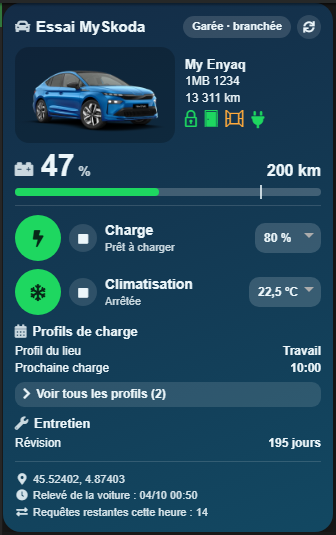
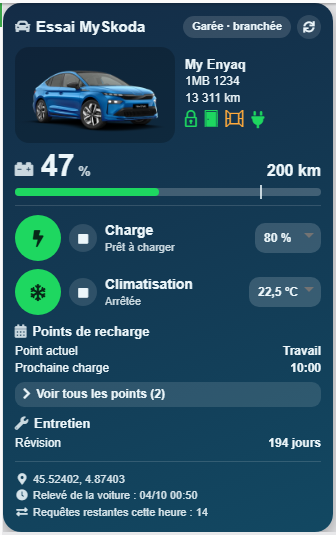
Version 0.82 : Points de recharge, Heures de depart et Heures de charge preferees comme dans l application, intitule Nombre des fiches de total

diff --git a/aide/fr_FR/index.html b/aide/fr_FR/index.html
@@ -21,8 +21,8 @@ li { margin: 4px 0; }
 <a href="index.html">Documentation</a><a href="changelog_beta.html">Journal des versions (beta)</a>
 </header>
 <p>Suivi et pilotage d'un véhicule Škoda par l'API publique officielle MyŠkoda.</p>
-<blockquote><p>Documentation du plugin en version 0.81 beta, publiée le 10/10/2026. Elle décrit ce que permet l'API publique de Škoda à cette date (version 1.1.0). Škoda peut faire évoluer son API : ce qui est écrit ici, en particulier le quota de requêtes et la liste des commandes possibles, vaut pour cette version. Documentation de l'API chez Škoda (en anglais) : <a href="https://public.api.connect.skoda-auto.cz/docs" target="_blank" rel="noopener">public.api.connect.skoda-auto.cz/docs</a>, avec son <a href="https://public.api.connect.skoda-auto.cz/docs/changelog" target="_blank" rel="noopener">journal des évolutions</a> et sa <a href="https://public.api.connect.skoda-auto.cz/docs/swagger-ui/index.html" target="_blank" rel="noopener">référence technique détaillée</a>, qui liste chaque demande que le plugin peut adresser à Škoda.</p></blockquote>
-<p>Prérequis : Jeedom 4.4 ou plus récent (le plugin est testé sur Jeedom 4.6), sous Debian 12 ou Debian 13. Debian 11, qui n'est plus maintenue, n'est pas prise en charge. Le plugin n'a ni démon ni dépendance.</p>
+<blockquote><p>Documentation du plugin en version 0.82 beta, publiée le 11/10/2026. Elle décrit ce que permet l'API publique de Škoda à cette date (version 1.1.0). Škoda peut faire évoluer son API : ce qui est écrit ici, en particulier le quota de requêtes et la liste des commandes possibles, vaut pour cette version. Documentation de l'API chez Škoda (en anglais) : <a href="https://public.api.connect.skoda-auto.cz/docs" target="_blank" rel="noopener">public.api.connect.skoda-auto.cz/docs</a>, avec son <a href="https://public.api.connect.skoda-auto.cz/docs/changelog" target="_blank" rel="noopener">journal des évolutions</a> et sa <a href="https://public.api.connect.skoda-auto.cz/docs/swagger-ui/index.html" target="_blank" rel="noopener">référence technique détaillée</a>, qui liste chaque demande que le plugin peut adresser à Škoda.</p></blockquote>
+<p>Prérequis : Jeedom 4.4 ou plus récent (le plugin est testé sur Jeedom 4.6), sous Debian 12 ou Debian 13. Debian 11 est en fin de vie (elle n'est plus maintenue depuis le 31 août 2026) : la logique est de passer à Debian 12 au minimum. Pour autant, le plugin y fonctionne aujourd'hui : un testeur fait tourner la version 0.81 sous Debian 11.11 avec PHP 7.4.33 (installation, mise à jour, lecture du véhicule, points de recharge, rapport de diagnostic). Le plugin n'a ni démon ni dépendance.</p>
 <h2>Mise en service</h2>
 <h3>1. Créer une clé dans l'application MyŠkoda</h3>
 <p>Sur le téléphone, dans l'application MyŠkoda : Profil, puis Maison intelligente. Créez une clé et copiez-la.</p>
@@ -55,10 +55,10 @@ li { margin: 4px 0; }
 <li>L'heure de l'état du verrouillage et des ouvrants est toujours indiquée sous les icônes ; si cet état a plus de 24 heures de retard sur le reste, les icônes sont estompées.</li>
 <li>Les détails de la charge (puissance, gain, temps restant, fin prévue) n'apparaissent que pendant une charge.</li>
 <li>La limite de charge se règle directement dans la liste de la tuile.</li>
-<li>Profils de charge (électriques et hybrides rechargeables) : si vous avez défini des lieux de recharge dans l'application MyŠkoda, la tuile indique, dans un bloc « Profils de charge », le « Profil du lieu » où la voiture est garée et, quand Škoda la donne, sa prochaine charge. Le bandeau « Voir tous les profils », à déplier d'un clic, liste chaque profil : limite de charge, charge minimale (en dessous, la voiture charge tout de suite), plages de charge et minuteries actives. C'est une lecture : les profils se modifient dans l'application MyŠkoda. Pour les retirer de la tuile, décochez « Afficher » sur la commande « Profil de charge du lieu ». Quatre commandes d'information servent aux scénarios : « Profil de charge du lieu » (vide quand la voiture n'est dans aucun lieu enregistré), « Profil de charge : limite », « Profil de charge : charge minimale » et « Profil de charge : prochaine charge ».</li>
+<li>Points de recharge (électriques et hybrides rechargeables) : si vous avez défini des points de recharge dans l'application MyŠkoda (un réglage de recharge par emplacement enregistré ; l'API de Škoda les nomme « profils de charge »), la tuile indique, dans un bloc « Points de recharge », le « Point actuel », celui où la voiture est garée, et, quand Škoda la donne, sa prochaine charge. Le bandeau « Voir tous les points », à déplier d'un clic, liste chaque point de recharge : limite de charge, charge minimale (en dessous, la voiture charge tout de suite), heures de charge préférées et heures de départ actives. C'est une lecture : les points de recharge se modifient dans l'application MyŠkoda. Pour les retirer de la tuile, décochez « Afficher » sur la commande « Point de recharge actuel ». Quatre commandes d'information servent aux scénarios : « Point de recharge actuel » (vide quand la voiture n'est dans aucun lieu enregistré), « Point de recharge : limite », « Point de recharge : charge minimale » et « Point de recharge : prochaine charge ». Sur un véhicule ajouté avant la version 0.82, ces quatre commandes gardent leur ancien nom (« Profil de charge du lieu », « Profil de charge : … ») : le plugin ne renomme pas une commande existante, vous pouvez le faire vous-même sans rien casser.</li>
 <li>La consigne de climatisation se règle de la même façon, dans la liste « Consigne ». Škoda ne permet pas de changer la température seule : elle n'est transmise qu'au démarrage. La valeur choisie est donc gardée par le plugin et envoyée quand vous appuyez sur « Démarrer » ; si la climatisation tourne déjà, elle est relancée à la nouvelle température. Tant que vous n'avez rien choisi, la liste montre la consigne de la voiture. Une fois choisie, la consigne (de 16 à 30 °C, par demi-degré) est envoyée à chaque démarrage de la climatisation, y compris depuis un scénario. Dans un scénario, la commande « Régler la consigne de climatisation » fait la même chose, et « Démarrer la climatisation à » démarre directement à une température donnée.</li>
 <li>Puissance de charge : la tuile affiche la valeur transmise par la voiture, au dixième de kW ; l'application MyŠkoda l'arrondit au kW entier, d'où un léger écart possible.</li>
-<li>Présentation « Carte » : sur la page de l'équipement, « Présentation de la tuile » propose « Tuile (par défaut) » ou « Carte ». La carte a une largeur fixe (330 pixels, hauteur selon le contenu, 500 au moins) et un fond de couleur, pensée pour un design ; elle remplace le cadre et le bandeau de titre de Jeedom. Elle porte tout ce que porte la tuile, présenté autrement : l'état du véhicule dans une pastille, la batterie ou le carburant en grands chiffres avec un repère à la limite de charge, un grand bouton rond pour la charge, la climatisation et le chauffage auxiliaire (démarrer ou arrêter selon l'état, la commande inverse restant à côté en petit), les profils de charge, l'entretien, le lieu et le quota. Sur la carte, toute commande envoyée à la voiture demande une confirmation : charge, climatisation, chauffage auxiliaire, limite de charge. « Couleur de fond de la carte », sur la même page, choisit la couleur : le fond en est un dégradé, et les textes passent au sombre sur une couleur claire. Si vous avez choisi une couleur claire, la carte prend la version sombre de cette couleur quand Jeedom passe à son thème sombre (le soir, si l'option est activée dans les réglages de Jeedom) ; une carte sombre reste la même le jour et le soir. Comme sur la tuile, décocher « Afficher » sur une commande la retire de la carte.</li>
+<li>Présentation « Carte » : sur la page de l'équipement, « Présentation de la tuile » propose « Tuile (par défaut) » ou « Carte ». La carte a une largeur fixe (330 pixels, hauteur selon le contenu, 500 au moins) et un fond de couleur, pensée pour un design ; elle remplace le cadre et le bandeau de titre de Jeedom. Elle porte tout ce que porte la tuile, présenté autrement : l'état du véhicule dans une pastille, la batterie ou le carburant en grands chiffres avec un repère à la limite de charge, un grand bouton rond pour la charge, la climatisation et le chauffage auxiliaire (démarrer ou arrêter selon l'état, la commande inverse restant à côté en petit), les points de recharge, l'entretien, le lieu et le quota. Sur la carte, toute commande envoyée à la voiture demande une confirmation : charge, climatisation, chauffage auxiliaire, limite de charge. « Couleur de fond de la carte », sur la même page, choisit la couleur : le fond en est un dégradé, et les textes passent au sombre sur une couleur claire. Si vous avez choisi une couleur claire, la carte prend la version sombre de cette couleur quand Jeedom passe à son thème sombre (le soir, si l'option est activée dans les réglages de Jeedom) ; une carte sombre reste la même le jour et le soir. Comme sur la tuile, décocher « Afficher » sur une commande la retire de la carte.</li>
 </ul>
 <p><img src="images/ecran-presentation-carte.png" alt="Présentation « Carte » d'un véhicule électrique (valeurs d'exemple)" style="max-width:100%;border-radius:8px;"></p>
 <ul>

diff --git a/aide/fr_FR/changelog_beta.html b/aide/fr_FR/changelog_beta.html
@@ -20,7 +20,15 @@ li { margin: 4px 0; }
 <h1>Journal des versions du plugin MySkoda (beta)</h1>
 <a href="index.html">Documentation</a><a href="changelog_beta.html">Journal des versions (beta)</a>
 </header>
-<blockquote><p><strong>IMPORTANT</strong><br>Version beta. Le plugin tourne sur un véhicule à essence (trajets, carburant, position, entretien) et sur un véhicule électrique (batterie, autonomie, détection de la recharge, commandes de charge et de climatisation). Pas encore essayés sur un véhicule réel : un hybride, le chauffage auxiliaire, l'affichage des profils de charge et la présentation « Carte » d'une électrique (nouveautés de la 0.8, mises au point sur des données d'exemple). Les retours sont les bienvenus.</p></blockquote>
+<blockquote><p><strong>IMPORTANT</strong><br>Version beta. Le plugin tourne sur un véhicule à essence (trajets, carburant, position, entretien) et sur un véhicule électrique (batterie, autonomie, détection de la recharge, commandes de charge et de climatisation). Pas encore essayés sur un véhicule réel : un hybride, le chauffage auxiliaire, la présentation « Carte » d'une électrique (nouveauté de la 0.8, mise au point sur des données d'exemple). Les retours sont les bienvenus.</p></blockquote>
+<h2>0.82 — 11/10/2026</h2>
+<ul>
+<li>Les « profils de charge » s'appellent maintenant « Points de recharge », comme dans l'application MyŠkoda : titre du bloc sur la tuile, ligne « Point actuel », bandeau « Voir tous les points ». Dans la liste, « Minuteries » devient « Heures de départ » et « Plages de charge » devient « Heures de charge préférées ». Merci aux deux testeurs qui l'ont signalé.</li>
+<li>Les quatre commandes d'information correspondantes se nomment « Point de recharge actuel », « Point de recharge : limite », « Point de recharge : charge minimale » et « Point de recharge : prochaine charge » sur un véhicule ajouté à partir de cette version. Sur un véhicule déjà en place, elles gardent leur ancien nom (« Profil de charge… ») : rien ne change dans vos scénarios, et vous pouvez les renommer vous-même.</li>
+<li>Rapport de diagnostic : la ligne « profilsDeCharge » devient « pointsDeRecharge ».</li>
+<li>Journal de bord sur un écran étroit, onglet Recharges : dans les fiches « Total » et de chaque mois, le nombre de recharges était précédé du mot « Batterie ». Il est maintenant précédé de « Nombre ».</li>
+<li>L'affichage des points de recharge est confirmé sur un Elroq, et la version 0.81 tourne sous Debian 11.11 avec PHP 7.4.33. Debian 11 est en fin de vie et la logique reste de passer à Debian 12 au minimum, mais le plugin y fonctionne aujourd'hui.</li>
+</ul>
 <h2>0.81 — 10/10/2026</h2>
 <ul>
 <li>Dashboard : en dépliant « Voir tous les profils », la tuile restait à sa hauteur d'origine et la liste était coupée (en présentation « Carte », elle débordait sur la tuile du dessous). La tuile s'agrandit maintenant et le dashboard se range de nouveau. Corrige aussi le bas de la tuile parfois rogné de quelques lignes quand la photo du véhicule se chargeait après l'affichage.</li>

diff --git a/desktop/js/journal.js b/desktop/js/journal.js
@@ -1192,9 +1192,12 @@ var myskodaJournal = (function() {
       lines.forEach(function(line) {
         var tr = el('tr', line.group ? 'msj-group' : null)
         line.cells.forEach(function(cell, index) {
-          var td = el('td', headers[index][1] || null, cell)
+          // Une cellule peut porter son propre intitulé ({ text, label }) quand elle ne contient pas ce qu'annonce sa
+          // colonne (le nombre de recharges d'une ligne de total, rangé sous « Batterie »)
+          var own = (cell !== null && typeof cell == 'object')
+          var td = el('td', headers[index][1] || null, own ? cell.text : cell)
           // Intitulé de la colonne, affiché devant la valeur quand le tableau est présenté en fiches
-          td.setAttribute('data-label', headers[index][0])
+          td.setAttribute('data-label', own ? cell.label : headers[index][0])
           tr.appendChild(td)
         })
         node.appendChild(tr)
@@ -1320,7 +1323,7 @@ var myskodaJournal = (function() {
       var cost = has(rows, 'cost') ? sum(rows, 'cost') : null
       return refillColumns([
         label, place, duration(minutes),
-        isGroup ? rows.length + ' ' + U.refills : battery(rows[0]),
+        isGroup ? { text: rows.length + ' ' + U.refills, label: '{{Nombre}}' } : battery(rows[0]),
         show(energy, U.energy, 1),
         (energy !== null && minutes > 0) ? show(energy / (minutes / 60), 'kW', 1) : EMPTY,
         has(rows, 'rangeGained') ? signed(sum(rows, 'rangeGained'), 'km') : EMPTY,

diff --git a/core/class/myskoda.class.php b/core/class/myskoda.class.php
@@ -65,10 +65,10 @@ class myskoda extends eqLogic {
     'max_charge_current' => array('Courant de charge', 'string', '', 0, 0),
     'max_charge_current_ampere' => array('Courant de charge maximal', 'numeric', 'A', 0, 0),
     'in_saved_location' => array('Dans un lieu enregistré', 'binary', '', 0, 0),
-    'charge_profile' => array('Profil de charge du lieu', 'string', '', 0, 1),
-    'charge_profile_target' => array('Profil de charge : limite', 'numeric', '%', 0, 0),
-    'charge_profile_min' => array('Profil de charge : charge minimale', 'numeric', '%', 0, 0),
-    'charge_profile_next' => array('Profil de charge : prochaine charge', 'string', '', 0, 0),
+    'charge_profile' => array('Point de recharge actuel', 'string', '', 0, 1),
+    'charge_profile_target' => array('Point de recharge : limite', 'numeric', '%', 0, 0),
+    'charge_profile_min' => array('Point de recharge : charge minimale', 'numeric', '%', 0, 0),
+    'charge_profile_next' => array('Point de recharge : prochaine charge', 'string', '', 0, 0),
     'climate_on' => array('Climatisation active', 'binary', '', 1, 1),
     'climate_state' => array('État de la climatisation', 'string', '', 0, 1),
     'target_temperature' => array('Température de consigne', 'numeric', '°C', 0, 1),
@@ -600,10 +600,13 @@ class myskoda extends eqLogic {
     $this->refreshWidget();
   }
 
-  // Profils de charge d'un électrique ou d'un hybride rechargeable, tels que Škoda les rend, mis en forme pour
+  // Profils de charge (« charging profiles » dans l'API, « Points de recharge » dans l'application MyŠkoda et donc à
+  // l'écran) d'un électrique ou d'un hybride rechargeable, tels que Škoda les rend, mis en forme pour
   // l'affichage. Un profil est un réglage de recharge rattaché à un lieu enregistré dans l'application MyŠkoda :
   // limite de charge, charge minimale (en dessous, la voiture charge tout de suite), plages horaires préférées,
-  // minuteries. Rend null si le véhicule n'en fournit pas ; « current » est le profil du lieu où il est garé, ou null.
+  // heures de départ (« timers » dans l'API ; l'application MyŠkoda les nomme « Heure de départ 1, 2, 3 », indiqué par
+  // un testeur le 2026-10-10 ; les plages y sont les « Heures de charge préférées », capture d'un second testeur le
+  // 2026-10-11). Rend null si le véhicule n'en fournit pas ; « current » est le profil du lieu où il est garé, ou null.
   public static function extractChargingProfiles($_vehicle) {
     $source = self::dig($_vehicle, 'chargingProfiles');
     if (!is_array($source) || !isset($source['profiles']) || !is_array($source['profiles'])) {
@@ -656,7 +659,7 @@ class myskoda extends eqLogic {
 
   private static $_dayLabels = array('MONDAY' => 'lun.', 'TUESDAY' => 'mar.', 'WEDNESDAY' => 'mer.', 'THURSDAY' => 'jeu.', 'FRIDAY' => 'ven.', 'SATURDAY' => 'sam.', 'SUNDAY' => 'dim.');
 
-  // Jours d'une minuterie, en clair : « tous les jours », « lun. à ven. », ou la liste
+  // Jours d'une heure de départ, en clair : « tous les jours », « lun. à ven. », ou la liste
   private static function dayList($_days) {
     $order = array_keys(self::$_dayLabels);
     $ranks = array();
@@ -723,7 +726,7 @@ class myskoda extends eqLogic {
     'AIR_CONDITIONING' => 'climatisation',
     'AUXILIARY_HEATING' => 'chauffage auxiliaire',
     'ACTIVE_VENTILATION' => 'ventilation',
-    'CHARGING_PROFILES' => 'profils de charge',
+    'CHARGING_PROFILES' => 'points de recharge',
     'CHARGING' => 'charge',
   );
 
@@ -2176,7 +2179,7 @@ class myskoda extends eqLogic {
   }
 
   // Profils de charge sur la tuile, en lecture seule : le profil du lieu où le véhicule est garé, puis la liste de tous
-  // les profils, repliée. Affichés tant que la commande « Profil de charge du lieu » est visible.
+  // les profils, repliée. Affichés tant que la commande « Point de recharge actuel » est visible.
   private function tileChargingProfiles() {
     $cmd = $this->getCmd('info', 'charge_profile');
     $profiles = $this->getCache('chargingProfiles', array());
@@ -2205,7 +2208,7 @@ class myskoda extends eqLogic {
     foreach ($profiles as $profile) {
       $name = htmlspecialchars((string) $profile['name']);
       if (!empty($profile['current'])) {
-        $html .= self::tileRow(__('Profil du lieu', __FILE__), $name);
+        $html .= self::tileRow(__('Point actuel', __FILE__), $name);
         if (!empty($profile['next'])) {
           $html .= self::tileRow(__('Prochaine charge', __FILE__), htmlspecialchars((string) $profile['next']));
         }
@@ -2214,13 +2217,13 @@ class myskoda extends eqLogic {
       $timers = (isset($profile['timers']) && count($profile['timers']) > 0) ? $join($profile['timers']) : __('aucune', __FILE__);
       $list .= '<div class="ms-profile"><div class="ms-profile-name">' . (!empty($profile['current']) ? '<i class="fas fa-map-marker-alt ms-ok" title="' . __('Le véhicule est garé dans ce lieu', __FILE__) . '"></i> ' : '') . $name . '</div>'
         . '<div>' . $describe($profile) . '</div>'
-        . '<div>' . __('Plages de charge', __FILE__) . ' : ' . $times . '</div>'
-        . '<div>' . __('Minuteries', __FILE__) . ' : ' . $timers . '</div></div>';
+        . '<div>' . __('Heures de charge préférées', __FILE__) . ' : ' . $times . '</div>'
+        . '<div>' . __('Heures de départ', __FILE__) . ' : ' . $timers . '</div></div>';
     }
     // Bloc à part, avec son titre comme « Entretien » : sur une tuile étroite il vient sous « Climatisation », et sans
     // titre ses lignes sembleraient en faire partie
-    return '<div class="ms-block ms-profile-zone"><div class="ms-title"><i class="fas fa-calendar-alt"></i>' . __('Profils de charge', __FILE__) . '</div>' . $html
-      . '<details class="ms-profiles"><summary title="' . __('Cliquer pour déplier ou replier', __FILE__) . '"><i class="fas fa-chevron-right"></i>' . __('Voir tous les profils', __FILE__) . ' (' . count($profiles) . ')</summary>' . $list . '</details></div>';
+    return '<div class="ms-block ms-profile-zone"><div class="ms-title"><i class="fas fa-calendar-alt"></i>' . __('Points de recharge', __FILE__) . '</div>' . $html
+      . '<details class="ms-profiles"><summary title="' . __('Cliquer pour déplier ou replier', __FILE__) . '"><i class="fas fa-chevron-right"></i>' . __('Voir tous les points', __FILE__) . ' (' . count($profiles) . ')</summary>' . $list . '</details></div>';
   }
 
   // Largeur de la présentation « carte », en pixels : fixe, pour s'aligner avec d'autres cartes sur un design.

diff --git a/core/class/myskodaDiagnostic.class.php b/core/class/myskodaDiagnostic.class.php
@@ -131,7 +131,7 @@ class myskodaDiagnostic {
       foreach ($profiles as $profile) {
         $here += empty($profile['current']) ? 0 : 1;
       }
-      $lines[] = self::line('profilsDeCharge', count($profiles) . ', véhicule dans un lieu enregistré : ' . self::yesNo($here > 0));
+      $lines[] = self::line('pointsDeRecharge', count($profiles) . ', véhicule dans un lieu enregistré : ' . self::yesNo($here > 0));
     }
 
     $places = $_eqLogic->getPlaces();
@@ -240,7 +240,7 @@ class myskodaDiagnostic {
       // Un profil de charge porte le nom que l'utilisateur lui a donné, souvent celui d'un lieu
       $profiles = $eqLogic->getCache('chargingProfiles', array());
       foreach (is_array($profiles) ? $profiles : array() as $profile) {
-        $swap(isset($profile['name']) ? $profile['name'] : '', '[profil]');
+        $swap(isset($profile['name']) ? $profile['name'] : '', '[point de recharge]');
       }
       foreach ($eqLogic->getPlaces() as $place) {
         foreach (array('name', 'address') as $key) {

diff --git a/docs/fr_FR/index.md b/docs/fr_FR/index.md
@@ -2,9 +2,9 @@
 
 Suivi et pilotage d'un véhicule Škoda par l'API publique officielle MyŠkoda.
 
-> Documentation du plugin en version 0.81 beta, publiée le 10/10/2026. Elle décrit ce que permet l'API publique de Škoda à cette date (version 1.1.0). Škoda peut faire évoluer son API : ce qui est écrit ici, en particulier le quota de requêtes et la liste des commandes possibles, vaut pour cette version. Documentation de l'API chez Škoda (en anglais) : [public.api.connect.skoda-auto.cz/docs](https://public.api.connect.skoda-auto.cz/docs), avec son [journal des évolutions](https://public.api.connect.skoda-auto.cz/docs/changelog) et sa [référence technique détaillée](https://public.api.connect.skoda-auto.cz/docs/swagger-ui/index.html), qui liste chaque demande que le plugin peut adresser à Škoda.
+> Documentation du plugin en version 0.82 beta, publiée le 11/10/2026. Elle décrit ce que permet l'API publique de Škoda à cette date (version 1.1.0). Škoda peut faire évoluer son API : ce qui est écrit ici, en particulier le quota de requêtes et la liste des commandes possibles, vaut pour cette version. Documentation de l'API chez Škoda (en anglais) : [public.api.connect.skoda-auto.cz/docs](https://public.api.connect.skoda-auto.cz/docs), avec son [journal des évolutions](https://public.api.connect.skoda-auto.cz/docs/changelog) et sa [référence technique détaillée](https://public.api.connect.skoda-auto.cz/docs/swagger-ui/index.html), qui liste chaque demande que le plugin peut adresser à Škoda.
 
-Prérequis : Jeedom 4.4 ou plus récent (le plugin est testé sur Jeedom 4.6), sous Debian 12 ou Debian 13. Debian 11, qui n'est plus maintenue, n'est pas prise en charge. Le plugin n'a ni démon ni dépendance.
+Prérequis : Jeedom 4.4 ou plus récent (le plugin est testé sur Jeedom 4.6), sous Debian 12 ou Debian 13. Debian 11 est en fin de vie (elle n'est plus maintenue depuis le 31 août 2026) : la logique est de passer à Debian 12 au minimum. Pour autant, le plugin y fonctionne aujourd'hui : un testeur fait tourner la version 0.81 sous Debian 11.11 avec PHP 7.4.33 (installation, mise à jour, lecture du véhicule, points de recharge, rapport de diagnostic). Le plugin n'a ni démon ni dépendance.
 
 ## Mise en service
 
@@ -64,10 +64,10 @@ Sur ces captures, les adresses, la plaque et les lieux sont des exemples.
 - L'heure de l'état du verrouillage et des ouvrants est toujours indiquée sous les icônes ; si cet état a plus de 24 heures de retard sur le reste, les icônes sont estompées.
 - Les détails de la charge (puissance, gain, temps restant, fin prévue) n'apparaissent que pendant une charge.
 - La limite de charge se règle directement dans la liste de la tuile.
-- Profils de charge (électriques et hybrides rechargeables) : si vous avez défini des lieux de recharge dans l'application MyŠkoda, la tuile indique, dans un bloc « Profils de charge », le « Profil du lieu » où la voiture est garée et, quand Škoda la donne, sa prochaine charge. Le bandeau « Voir tous les profils », à déplier d'un clic, liste chaque profil : limite de charge, charge minimale (en dessous, la voiture charge tout de suite), plages de charge et minuteries actives. C'est une lecture : les profils se modifient dans l'application MyŠkoda. Pour les retirer de la tuile, décochez « Afficher » sur la commande « Profil de charge du lieu ». Quatre commandes d'information servent aux scénarios : « Profil de charge du lieu » (vide quand la voiture n'est dans aucun lieu enregistré), « Profil de charge : limite », « Profil de charge : charge minimale » et « Profil de charge : prochaine charge ».
+- Points de recharge (électriques et hybrides rechargeables) : si vous avez défini des points de recharge dans l'application MyŠkoda (un réglage de recharge par emplacement enregistré ; l'API de Škoda les nomme « profils de charge »), la tuile indique, dans un bloc « Points de recharge », le « Point actuel », celui où la voiture est garée, et, quand Škoda la donne, sa prochaine charge. Le bandeau « Voir tous les points », à déplier d'un clic, liste chaque point de recharge : limite de charge, charge minimale (en dessous, la voiture charge tout de suite), heures de charge préférées et heures de départ actives. C'est une lecture : les points de recharge se modifient dans l'application MyŠkoda. Pour les retirer de la tuile, décochez « Afficher » sur la commande « Point de recharge actuel ». Quatre commandes d'information servent aux scénarios : « Point de recharge actuel » (vide quand la voiture n'est dans aucun lieu enregistré), « Point de recharge : limite », « Point de recharge : charge minimale » et « Point de recharge : prochaine charge ». Sur un véhicule ajouté avant la version 0.82, ces quatre commandes gardent leur ancien nom (« Profil de charge du lieu », « Profil de charge : … ») : le plugin ne renomme pas une commande existante, vous pouvez le faire vous-même sans rien casser.
 - La consigne de climatisation se règle de la même façon, dans la liste « Consigne ». Škoda ne permet pas de changer la température seule : elle n'est transmise qu'au démarrage. La valeur choisie est donc gardée par le plugin et envoyée quand vous appuyez sur « Démarrer » ; si la climatisation tourne déjà, elle est relancée à la nouvelle température. Tant que vous n'avez rien choisi, la liste montre la consigne de la voiture. Une fois choisie, la consigne (de 16 à 30 °C, par demi-degré) est envoyée à chaque démarrage de la climatisation, y compris depuis un scénario. Dans un scénario, la commande « Régler la consigne de climatisation » fait la même chose, et « Démarrer la climatisation à » démarre directement à une température donnée.
 - Puissance de charge : la tuile affiche la valeur transmise par la voiture, au dixième de kW ; l'application MyŠkoda l'arrondit au kW entier, d'où un léger écart possible.
-- Présentation « Carte » : sur la page de l'équipement, « Présentation de la tuile » propose « Tuile (par défaut) » ou « Carte ». La carte a une largeur fixe (330 pixels, hauteur selon le contenu, 500 au moins) et un fond de couleur, pensée pour un design ; elle remplace le cadre et le bandeau de titre de Jeedom. Elle porte tout ce que porte la tuile, présenté autrement : l'état du véhicule dans une pastille, la batterie ou le carburant en grands chiffres avec un repère à la limite de charge, un grand bouton rond pour la charge, la climatisation et le chauffage auxiliaire (démarrer ou arrêter selon l'état, la commande inverse restant à côté en petit), les profils de charge, l'entretien, le lieu et le quota. Sur la carte, toute commande envoyée à la voiture demande une confirmation : charge, climatisation, chauffage auxiliaire, limite de charge. « Couleur de fond de la carte », sur la même page, choisit la couleur : le fond en est un dégradé, et les textes passent au sombre sur une couleur claire. Si vous avez choisi une couleur claire, la carte prend la version sombre de cette couleur quand Jeedom passe à son thème sombre (le soir, si l'option est activée dans les réglages de Jeedom) ; une carte sombre reste la même le jour et le soir. Comme sur la tuile, décocher « Afficher » sur une commande la retire de la carte.
+- Présentation « Carte » : sur la page de l'équipement, « Présentation de la tuile » propose « Tuile (par défaut) » ou « Carte ». La carte a une largeur fixe (330 pixels, hauteur selon le contenu, 500 au moins) et un fond de couleur, pensée pour un design ; elle remplace le cadre et le bandeau de titre de Jeedom. Elle porte tout ce que porte la tuile, présenté autrement : l'état du véhicule dans une pastille, la batterie ou le carburant en grands chiffres avec un repère à la limite de charge, un grand bouton rond pour la charge, la climatisation et le chauffage auxiliaire (démarrer ou arrêter selon l'état, la commande inverse restant à côté en petit), les points de recharge, l'entretien, le lieu et le quota. Sur la carte, toute commande envoyée à la voiture demande une confirmation : charge, climatisation, chauffage auxiliaire, limite de charge. « Couleur de fond de la carte », sur la même page, choisit la couleur : le fond en est un dégradé, et les textes passent au sombre sur une couleur claire. Si vous avez choisi une couleur claire, la carte prend la version sombre de cette couleur quand Jeedom passe à son thème sombre (le soir, si l'option est activée dans les réglages de Jeedom) ; une carte sombre reste la même le jour et le soir. Comme sur la tuile, décocher « Afficher » sur une commande la retire de la carte.
 
 ![Présentation « Carte » d'un véhicule électrique (valeurs d'exemple)](images/ecran-presentation-carte.png)
 

diff --git a/docs/fr_FR/changelog_beta.md b/docs/fr_FR/changelog_beta.md
@@ -2,7 +2,15 @@
 
 >**IMPORTANT**
 >
->Version beta. Le plugin tourne sur un véhicule à essence (trajets, carburant, position, entretien) et sur un véhicule électrique (batterie, autonomie, détection de la recharge, commandes de charge et de climatisation). Pas encore essayés sur un véhicule réel : un hybride, le chauffage auxiliaire, l'affichage des profils de charge et la présentation « Carte » d'une électrique (nouveautés de la 0.8, mises au point sur des données d'exemple). Les retours sont les bienvenus.
+>Version beta. Le plugin tourne sur un véhicule à essence (trajets, carburant, position, entretien) et sur un véhicule électrique (batterie, autonomie, détection de la recharge, commandes de charge et de climatisation). Pas encore essayés sur un véhicule réel : un hybride, le chauffage auxiliaire, la présentation « Carte » d'une électrique (nouveauté de la 0.8, mise au point sur des données d'exemple). Les retours sont les bienvenus.
+
+# 0.82 — 11/10/2026
+
+- Les « profils de charge » s'appellent maintenant « Points de recharge », comme dans l'application MyŠkoda : titre du bloc sur la tuile, ligne « Point actuel », bandeau « Voir tous les points ». Dans la liste, « Minuteries » devient « Heures de départ » et « Plages de charge » devient « Heures de charge préférées ». Merci aux deux testeurs qui l'ont signalé.
+- Les quatre commandes d'information correspondantes se nomment « Point de recharge actuel », « Point de recharge : limite », « Point de recharge : charge minimale » et « Point de recharge : prochaine charge » sur un véhicule ajouté à partir de cette version. Sur un véhicule déjà en place, elles gardent leur ancien nom (« Profil de charge… ») : rien ne change dans vos scénarios, et vous pouvez les renommer vous-même.
+- Rapport de diagnostic : la ligne « profilsDeCharge » devient « pointsDeRecharge ».
+- Journal de bord sur un écran étroit, onglet Recharges : dans les fiches « Total » et de chaque mois, le nombre de recharges était précédé du mot « Batterie ». Il est maintenant précédé de « Nombre ».
+- L'affichage des points de recharge est confirmé sur un Elroq, et la version 0.81 tourne sous Debian 11.11 avec PHP 7.4.33. Debian 11 est en fin de vie et la logique reste de passer à Debian 12 au minimum, mais le plugin y fonctionne aujourd'hui.
 
 # 0.81 — 10/10/2026
 
